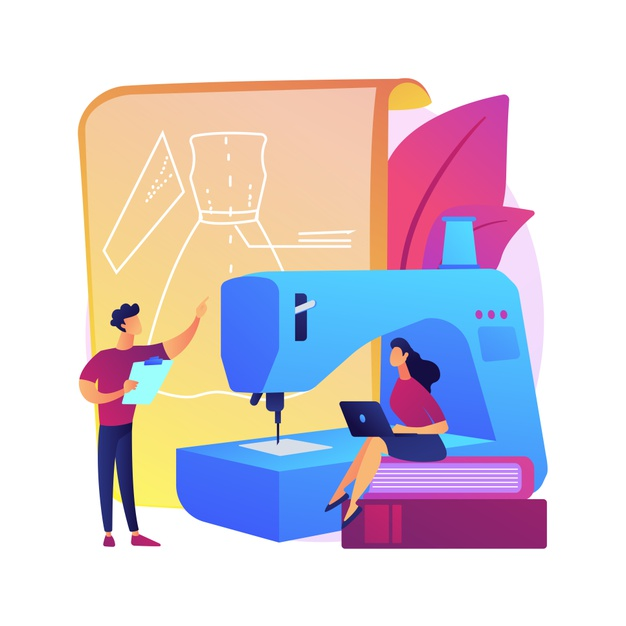
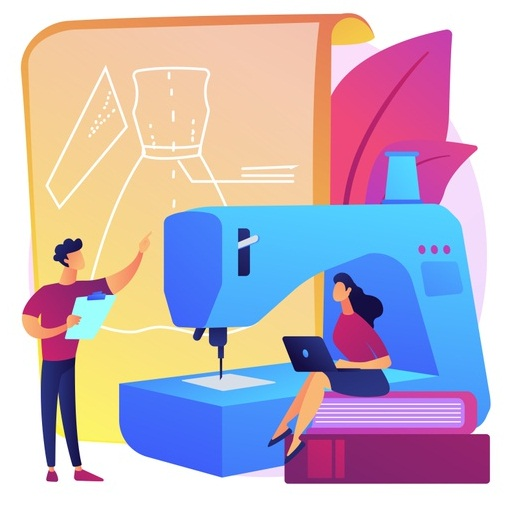
edit image dimensions

diff --git a/home.html b/home.html
@@ -74,7 +74,7 @@
                 <div class="card mx-auto" style="width: 18rem;">
 
 
-                    <img src="./img/a.jpg" height=270px class="card-img-top" alt="...">
+                    <img src="./img/a.jpg" height=220px class="card-img-top" alt="...">
                     <div class="card-body">
                         <h5 class="card-title">Stitching</h5>
                         <p class="card-text">Lorem ipsum dolor sit amet consectetur adipisicing elit. </p>
@@ -84,7 +84,7 @@
             </div>
             <div class="col-md-4 mx-auto ">
                 <div class="card mx-auto" style="width: 18rem;">
-                    <img src="./img/b.jpg" height=270px class="card-img-top" alt="...">
+                    <img src="./img/b.jpg" height=220px class="card-img-top" alt="...">
                     <div class="card-body">
                         <h5 class="card-title">Pickles</h5>
                         <p class="card-text">Lorem ipsum dolor sit amet consectetur adipisicing elit. </p>
@@ -94,7 +94,7 @@
             </div>
             <div class="col-md-4 mx-auto ">
                 <div class="card mx-auto" style="width: 18rem;">
-                    <img src="./img/c.jpg" height=270px class="card-img-top" alt="...">
+                    <img src="./img/c.jpg" height=220px class="card-img-top" alt="...">
                     <div class="card-body">
                         <h5 class="card-title">Masks</h5>
                         <p class="card-text">Lorem ipsum dolor sit amet consectetur adipisicing elit. </p>
@@ -108,7 +108,7 @@
 
             <div class="col-md-4 mx-auto ">
                 <div class="card mx-auto" style="width: 18rem;">
-                    <img src="./img/d.jpg" height=270px class="card-img-top" alt="...">
+                    <img src="./img/d.jpg" height=220px class="card-img-top" alt="...">
                     <div class="card-body">
                         <h5 class="card-title">Start a Boutique!</h5>
                         <p class="card-text">Lorem ipsum dolor sit amet consectetur adipisicing elit. </p>
@@ -118,7 +118,7 @@
             </div>
             <div class="col-md-4 mx-auto ">
                 <div class="card mx-auto" style="width: 18rem;">
-                    <img src="./img/e.jpg" height=270px class="card-img-top" alt="...">
+                    <img src="./img/e.jpg" height=220px class="card-img-top" alt="...">
                     <div class="card-body">
                         <h5 class="card-title">Knitting</h5>
                         <p class="card-text">Lorem ipsum dolor sit amet consectetur adipisicing elit.</p>
@@ -128,7 +128,7 @@
             </div>
             <div class="col-md-4 mx-auto ">
                 <div class="card mx-auto" style="width: 18rem;">
-                    <img src="./img/j.jpg" height=270px class="card-img-top" alt="...">
+                    <img src="./img/j.jpg" height=220px class="card-img-top" alt="...">
                     <div class="card-body">
                         <h5 class="card-title">Snacks</h5>
                         <p class="card-text">Lorem ipsum dolor sit amet consectetur adipisicing elit.</p>
@@ -141,7 +141,7 @@
         <div class="row my-5">
             <div class="col-md-4 mx-auto ">
                 <div class="card mx-auto" style="width: 18rem;">
-                    <img src="./img/f.jpg" height=270px class="card-img-top" alt="...">
+                    <img src="./img/f.jpg" height=220px class="card-img-top" alt="...">
                     <div class="card-body">
                         <h5 class="card-title">Restaurant</h5>
                         <p class="card-text">Lorem ipsum dolor sit amet consectetur adipisicing elit. </p>
@@ -151,7 +151,7 @@
             </div>
             <div class="col-md-4 mx-auto ">
                 <div class="card mx-auto" style="width: 18rem;">
-                    <img src="./img/g.jpg" height=270px class="card-img-top" alt="...">
+                    <img src="./img/g.jpg" height=220px class="card-img-top" alt="...">
                     <div class="card-body">
                         <h5 class="card-title">Pottery</h5>
                         <p class="card-text">Lorem ipsum dolor sit amet consectetur adipisicing elit.</p>
@@ -161,7 +161,7 @@
             </div>
             <div class="col-md-4 mx-auto ">
                 <div class="card mx-auto" style="width: 18rem;">
-                    <img src="./img/h.jpg" height=270px class="card-img-top" alt="...">
+                    <img src="./img/h.jpg" height=220px class="card-img-top" alt="...">
                     <div class="card-body">
                         <h5 class="card-title">The Sweet Laddoo</h5>
                         <p class="card-text">Lorem ipsum dolor sit amet consectetur adipisicing elit. </p>
